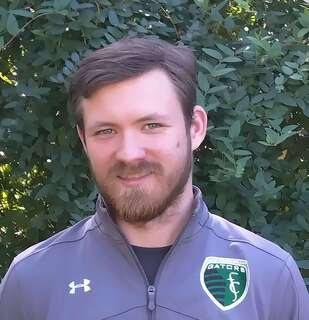
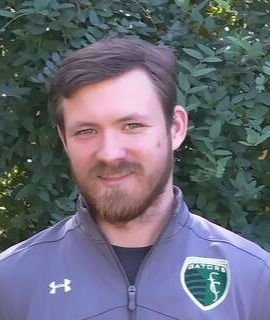
Team Update
Resized all images.
Added new TMs.
Separated 3D/2D team

diff --git a/index.html b/index.html
@@ -317,7 +317,7 @@
                             <img src="images/placeholder.jpg" data-src="images/carlosc.JPG" class="img-fluid b-lazy" alt="teammember">
                         </figure>
                         <p class="team-name">Carlos C.</p>
-                        <p class="subtle">Associate Producer</p>
+                        <p class="subtle">Producer</p>
                     </div>
                 </div>
                 <!-----------------------------------------------------DEVELOPMENT--------------------------------------------------------->
@@ -343,6 +343,20 @@
                             <img src="images/placeholder.jpg" data-src="images/AlexB.jpg" class="img-fluid b-lazy" alt="teammember">
                         </figure>
                         <p class="team-name">Alex B.</p>
+                        <p class="subtle">Unity Developer</p>
+                    </div>
+                    <div class="col-md-3 team-card">
+                        <figure>
+                            <img src="images/placeholder.jpg" data-src="images/Ellie_M.JPG" class="img-fluid b-lazy" alt="teammember">
+                        </figure>
+                        <p class="team-name">Ellie M.</p>
+                        <p class="subtle">Unity Developer</p>
+                    </div>
+                    <div class="col-md-3 team-card">
+                        <figure>
+                            <img src="images/placeholder.jpg" data-src="images/Clara_N.JPG" class="img-fluid b-lazy" alt="teammember">
+                        </figure>
+                        <p class="team-name">Clara N.</p>
                         <p class="subtle">Unity Developer</p>
                     </div>
                 </div>
@@ -374,13 +388,6 @@
                     </div>
                     <div class="col-md-3 team-card">
                         <figure>
-                            <img src="images/placeholder.jpg" data-src="images/ChrisQ.png" class="img-fluid b-lazy" alt="teammember">
-                        </figure>
-                        <p class="team-name">Chris Q.</p>
-                        <p class="subtle">Level Designer</p>
-                    </div>
-                    <div class="col-md-3 team-card">
-                        <figure>
                             <img src="images/placeholder.jpg" data-src="images/DanielC.jpg" class="img-fluid b-lazy" alt="teammember">
                         </figure>
                         <p class="team-name">Daniel C.</p>
@@ -395,18 +402,11 @@
                     </div>
                 </div>
                 
-                <!--------------------------------------------------ART-------------------------------------------------------->
+                <!--------------------------------------------------2D ART-------------------------------------------------------->
                 
-                <div class="row"><h3 class="animation-element slide-down">THE <span class="colored">ART TEAM</span></h3></div>
+                <div class="row"><h3 class="animation-element slide-down">THE <span class="colored">2D ART TEAM</span></h3></div>
                 
                 <div id="full-row" class="row text-center">
-                    <div class="col-md-3 team-card">
-                        <figure>
-                            <img src="images/placeholder.jpg" data-src="images/Taylor_Benoit.png" class="img-fluid b-lazy" alt="teammember">
-                        </figure>
-                        <p class="team-name">Taylor B.</p>
-                        <p class="subtle">3D Art Lead</p>
-                    </div>
                     <div class="col-md-3 team-card">
                         <figure>
                             <img src="images/placeholder.jpg" data-src="images/TylerC.png" class="img-fluid b-lazy" alt="teammember">
@@ -430,18 +430,36 @@
                     </div>
                     <div class="col-md-3 team-card">
                         <figure>
+                            <img src="images/placeholder.jpg" data-src="images/Tessa_L.JPG" class="img-fluid b-lazy" alt="teammember">
+                        </figure>
+                        <p class="team-name">Tessa L.</p>
+                        <p class="subtle">2D Artist</p>
+                    </div>
+                    <div class="col-md-3 team-card">
+                        <figure>
+                            <img src="images/placeholder.jpg" data-src="images/Ashley_W.JPG" class="img-fluid b-lazy" alt="teammember">
+                        </figure>
+                        <p class="team-name">Ashley W.</p>
+                        <p class="subtle">2D Artist</p>
+                    </div>
+                </div>
+                <!--------------------------------------------------3D ART-------------------------------------------------------->
+                <div class="row"><h3 class="animation-element slide-down">THE <span class="colored">3D ART TEAM</span></h3></div>
+                <div id="full-row" class="row text-center">
+                    <div class="col-md-3 team-card">
+                        <figure>
+                            <img src="images/placeholder.jpg" data-src="images/Taylor_Benoit.png" class="img-fluid b-lazy" alt="teammember">
+                        </figure>
+                        <p class="team-name">Taylor B.</p>
+                        <p class="subtle">3D Art Lead</p>
+                    </div>
+                    <div class="col-md-3 team-card">
+                        <figure>
                             <img src="images/placeholder.jpg" data-src="images/Megan_Foy.png" class="img-fluid b-lazy" alt="teammember">
                         </figure>
                         <p class="team-name">Megan F.</p>
                         <p class="subtle">3D Artist</p>
                     </div>
-                    <!--<div class="col-md-3 team-card">
-                        <figure>
-                            <img src="images/placeholder.jpg" data-src="images/RoseG.jpg" class="img-fluid b-lazy" alt="teammember">
-                        </figure>
-                        <p class="team-name">Rose G.</p>
-                        <p class="subtle">2D Technical Artist</p>
-                    </div> -->
                     <div class="col-md-3 team-card">
                         <figure>
                             <img src="images/placeholder.jpg" data-src="images/frannie.png" class="img-fluid b-lazy" alt="teammember">
@@ -449,13 +467,13 @@
                         <p class="team-name">Frannie M.</p>
                         <p class="subtle">3D Artist</p>
                     </div>
-                    <!--<div class="col-md-3 team-card">
+                    <div class="col-md-3 team-card">
                         <figure>
                             <img src="images/placeholder.jpg" data-src="images/JoeB.JPG" class="img-fluid b-lazy" alt="teammember">
                         </figure>
                         <p class="team-name">Joe B.</p>
                         <p class="subtle">3D Artist</p>
-                    </div> -->
+                    </div> 
                 </div>
 
                 
@@ -571,17 +589,17 @@
                 <div id="full-row" class="row text-center align-center">
                     <div class="col-md-3 team-card">
                         <figure>
-                            <img src="images/placeholder.jpg" data-src="images/Zachary_LaFever.png" class="img-fluid b-lazy" alt="teammember">
+                            <img src="images/placeholder.jpg" data-src="images/Conor_R.JPG" class="img-fluid b-lazy" alt="teammember">
                         </figure>
-                        <p class="team-name">Zachary L.</p>
-                        <p class="subtle">Video Editor</p>
+                        <p class="team-name">Conor R.</p>
+                        <p class="subtle">Community Manager</p>
                     </div> 
                     <div class="col-md-3 team-card">
                         <figure>
-                            <img src="images/placeholder.jpg" data-src="images/Jake.JPG" class="img-fluid b-lazy" alt="teammember">
+                            <img src="images/placeholder.jpg" data-src="images/Armando_F.JPG" class="img-fluid b-lazy" alt="teammember">
                         </figure>
-                        <p class="team-name">Jake K.</p>
-                        <p class="subtle">Content Writing | Marketing</p>
+                        <p class="team-name">Armando F.</p>
+                        <p class="subtle">Community Manager</p>
                     </div> 
                     <div class="col-md-3 team-card">
                         <figure>
